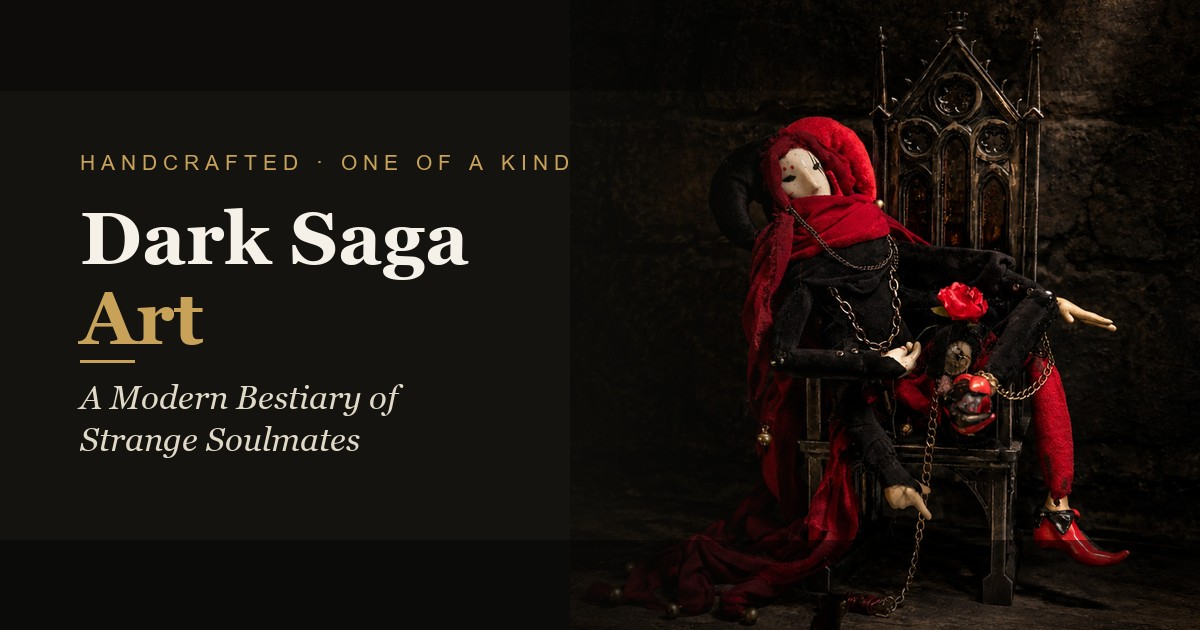
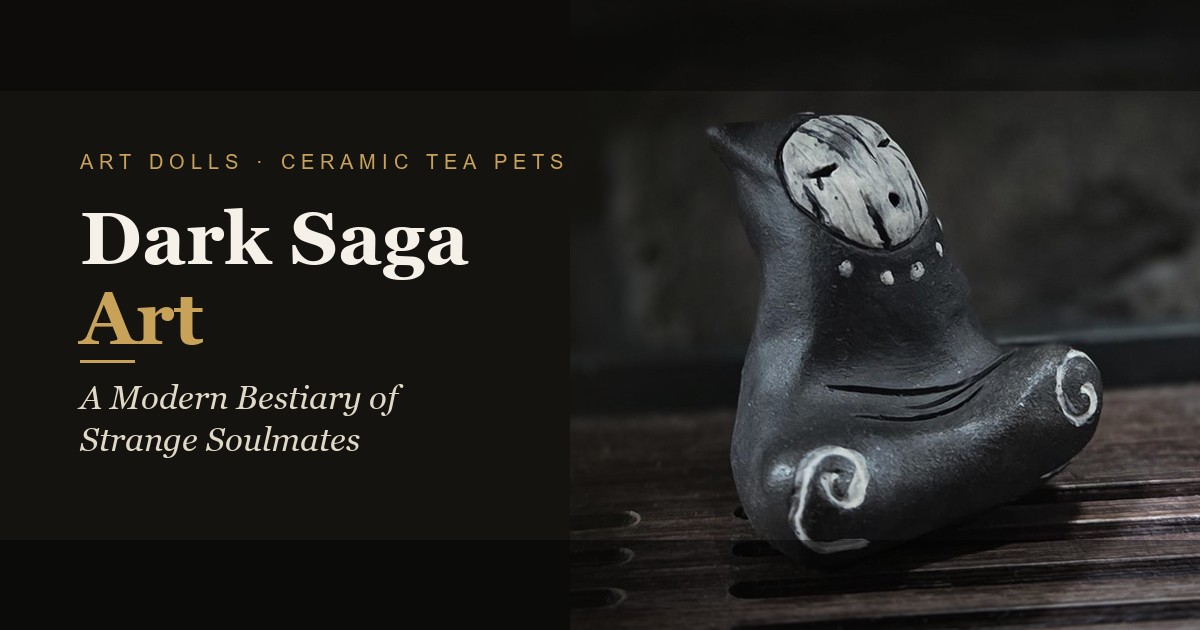
seo/copy: OG-превью с Solas + Art Dolls & Tea Pets в title/карточке; новый текст Find Your Match

Changed region(s): [[0.0617, 0.0603, 1.0, 1.0], [0.8633, 0.0, 0.9558, 0.1206]]

diff --git a/index.html b/index.html
@@ -4,7 +4,7 @@
 <head>
     <meta charset="UTF-8">
     <meta name="viewport" content="width=device-width, initial-scale=1.0">
-    <title>Dark Saga Art — A Modern Bestiary of Strange Soulmates</title>
+    <title>Dark Saga Art — Handmade Art Dolls &amp; Ceramic Tea Pets</title>
     <meta name="description" content="Dark Saga Art — handmade ceramic tea pets and one-of-a-kind art dolls. Strange, magical companions sculpted by hand, with zero molds or copies. Each one is looking for its human.">
 
     <!-- Favicon -->
@@ -16,14 +16,14 @@
     <!-- Open Graph / social preview -->
     <meta property="og:type" content="website">
     <meta property="og:site_name" content="Dark Saga Art">
-    <meta property="og:title" content="Dark Saga Art — A Modern Bestiary of Strange Soulmates">
+    <meta property="og:title" content="Dark Saga Art — Handmade Art Dolls & Ceramic Tea Pets">
     <meta property="og:description" content="Handmade ceramic tea pets and one-of-a-kind art dolls. Strange, magical companions, each one looking for its human.">
     <meta property="og:url" content="https://solardoll.github.io/dark-saga-art/">
     <meta property="og:image" content="https://solardoll.github.io/dark-saga-art/assets/og-image.jpg">
     <meta property="og:image:width" content="1200">
     <meta property="og:image:height" content="630">
     <meta name="twitter:card" content="summary_large_image">
-    <meta name="twitter:title" content="Dark Saga Art — A Modern Bestiary of Strange Soulmates">
+    <meta name="twitter:title" content="Dark Saga Art — Handmade Art Dolls & Ceramic Tea Pets">
     <meta name="twitter:description" content="Handmade ceramic tea pets and one-of-a-kind art dolls. Strange, magical companions, each one looking for its human.">
     <meta name="twitter:image" content="https://solardoll.github.io/dark-saga-art/assets/og-image.jpg">
 
@@ -2850,11 +2850,12 @@
                     <h2 class="section-title">Find the One That's <em>Yours</em></h2>
                     <div class="gold-rule"></div>
                 </div>
-                <p class="section-desc reveal" style="margin-bottom: 40px;">No two are alike. Some are loud, some
-                    brooding, some delightfully strange — and somewhere among them is the one whose character clicks
-                    with yours. This page holds only a fraction of the saga; the rest have gathered in my Etsy shop,
-                    waiting to meet their humans. Go and see who calls to you — and catch their daily adventures on
-                    Instagram.</p>
+                <p class="section-desc reveal">No two are alike. You'll find silly ones, thinkers, absolute
+                    sleepyheads, and those who are bold and fierce. Somewhere among them is the one whose spirit mirrors
+                    yours.</p>
+                <p class="section-desc reveal" style="margin-bottom: 40px;">This is only the beginning of the saga. The
+                    rest of the creatures have gathered in my Etsy shop, waiting to meet their humans. Step inside to
+                    see who calls to you. And peek behind the scenes of my workshop on Instagram.</p>
                 <div class="hero-btns reveal">
                     <a href="https://www.etsy.com/shop/DarkSagaArt" target="_blank" class="btn-primary">Adopt a
                         Companion</a>